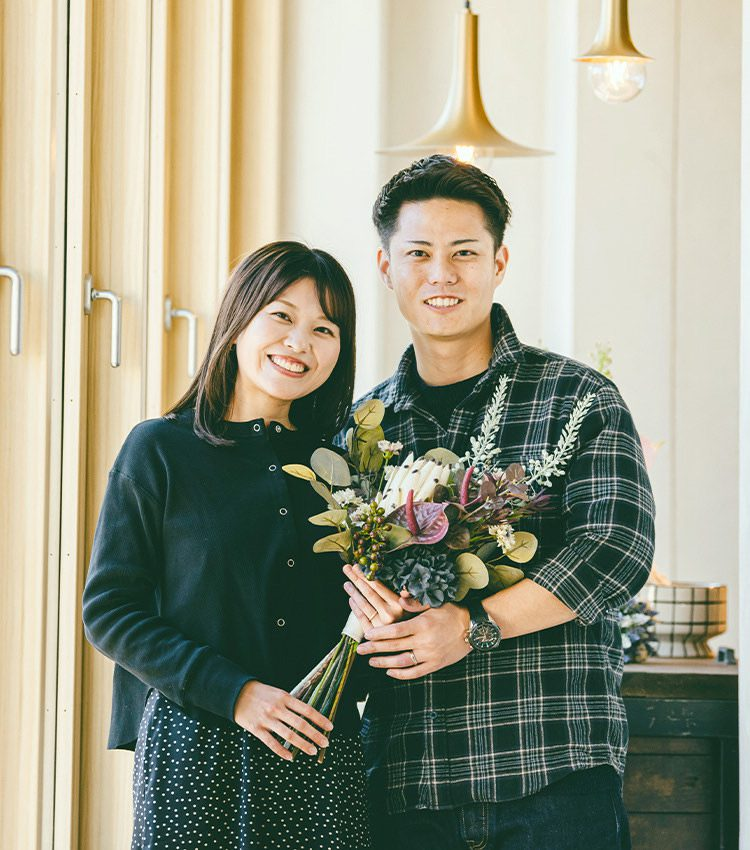
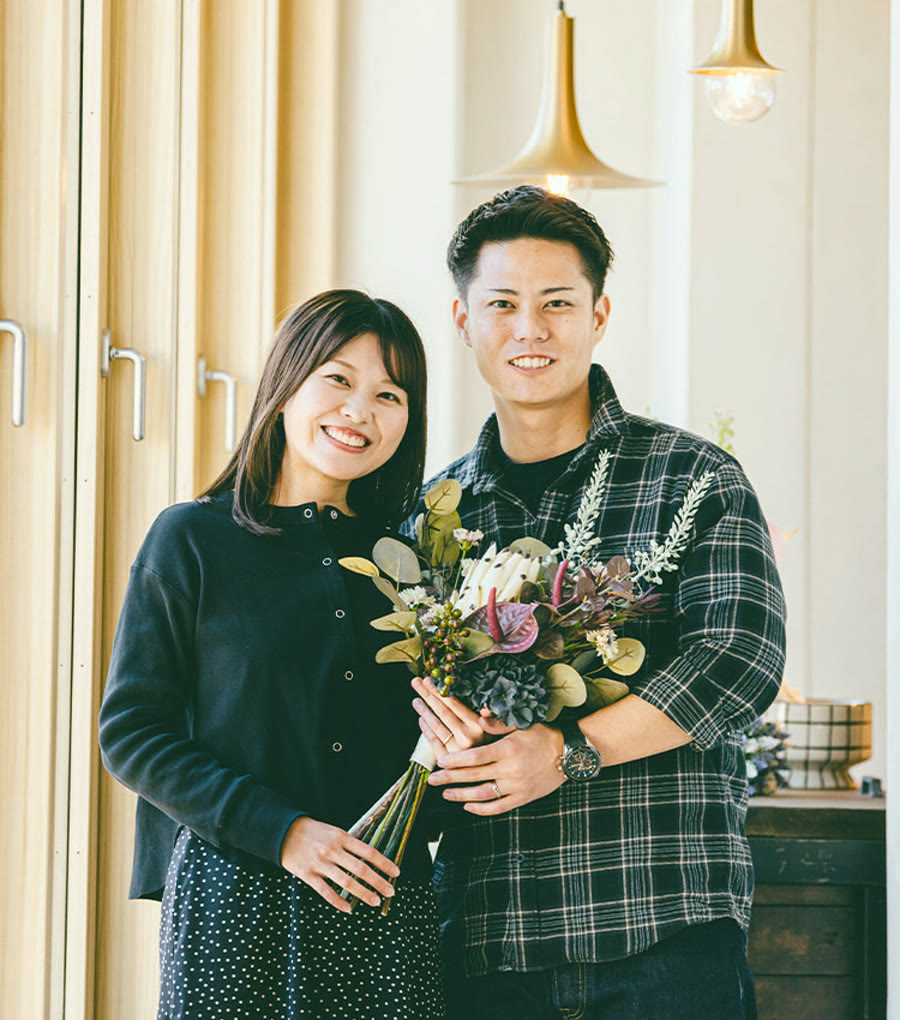
WORKSを指輪物撮り18枚のグリッドに刷新、VOICEを公式インタビュー24-26の実写真+実引用に差し替え
- 指輪写真: Drive「指輪物撮り」フォルダ（2025.08〜2026.05）から選定
- 引用は3本とも原文照合済み（vol.24は原文どおりに修正）
- 引用符マーク位置と語節改行を調整

diff --git a/index.html b/index.html
@@ -731,16 +731,15 @@
       border-radius: var(--radius);
       overflow: clip;
     }
-    .voice-card::before {
+    .voice-card__body::before {
       content: "“";
       position: absolute;
-      bottom: 74px; right: 16px;
+      top: 12px; right: 14px;
       color: var(--gold);
       font-family: var(--font-accent);
       font-size: 3rem;
       line-height: 1;
       opacity: 0.6;
-      z-index: 1;
     }
     .voice-card__photo {
       aspect-ratio: 1 / 1.1;
@@ -763,11 +762,14 @@
     }
     .voice-card blockquote {
       margin: 0;
+      padding-inline-end: 14px;
       color: var(--brown-heading);
       font-family: var(--font-heading);
       font-size: 1.05rem;
       font-weight: 500;
       line-height: 1.85;
+      word-break: keep-all;
+      overflow-wrap: anywhere;
     }
     .voice-card cite {
       display: block;
@@ -1379,7 +1381,7 @@
             <img class="voice-card__photo" src="assets/voice-26.jpg" alt="お客さまインタビュー vol.26の先輩カップル写真" loading="lazy" decoding="async">
             <div class="voice-card__body">
               <span class="voice-card__theme">一緒に作った時間が思い出に</span>
-              <blockquote>二人で一緒に作ったので思い出にもなった</blockquote>
+              <blockquote>二人で一緒に作ったので<wbr>思い出にもなった</blockquote>
               <cite>お客さまインタビュー vol.26</cite>
             </div>
           </a>
@@ -1387,7 +1389,7 @@
             <img class="voice-card__photo" src="assets/voice-25.jpg" alt="お客さまインタビュー vol.25の先輩カップル写真" loading="lazy" decoding="async">
             <div class="voice-card__body">
               <span class="voice-card__theme">初めてでも楽しい</span>
-              <blockquote>緊張もなくて、終始楽しかったです。</blockquote>
+              <blockquote>緊張もなくて、<wbr>終始楽しかったです。</blockquote>
               <cite>お客さまインタビュー vol.25</cite>
             </div>
           </a>
@@ -1395,7 +1397,7 @@
             <img class="voice-card__photo" src="assets/voice-24.jpg" alt="お客さまインタビュー vol.24の先輩カップル写真" loading="lazy" decoding="async">
             <div class="voice-card__body">
               <span class="voice-card__theme">棒から作ったとは思えない完成度</span>
-              <blockquote>金属の棒からこうなるんだって、嬉しかった</blockquote>
+              <blockquote>金属の棒からこうなるんだって……<wbr>完成したのを見たら、<wbr>すごい嬉しかったです</blockquote>
               <cite>お客さまインタビュー vol.24</cite>
             </div>
           </a>
